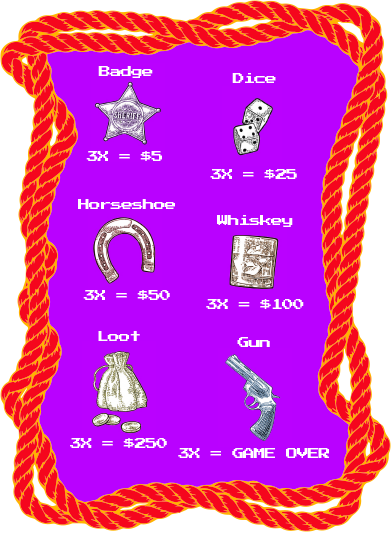
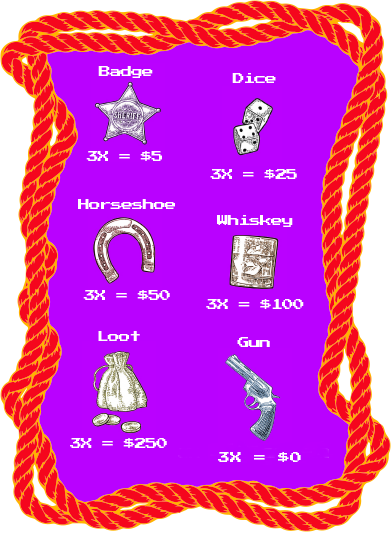
added sounds

Changed region(s): [[0.4604, 0.8405, 0.8593, 0.8705]]

diff --git a/js/main.js b/js/main.js
@@ -23,7 +23,7 @@ var state = {
 var weighting = [ 0,0,0,0,0,0,1, 1, 1, 1, 1, 1,2,2,2,2,2,3,3,3,3,3,3,4,4,4,4,4,4,5,5,5,5,5];
 
 var sounds = {
-    landing: 'http://soundbible.com/mp3/Cowboy_Theme-Pavak-1711860633.mp3',
+    //landing: 'http://soundbible.com/mp3/Cowboy_Theme-Pavak-1711860633.mp3',
     betting: 'http://freesound.org/data/previews/79/79172_1230147-lq.mp3',
     resetting: 'http://freesound.org/data/previews/165/165390_2989529-lq.mp3',
     letErRip: 'http://freesound.org/data/previews/160/160885_2895933-lq.mp3',
@@ -35,6 +35,7 @@ let msg, win;
 
 /*----- cached element references -----*/
 var audio = document.getElementById("bgSound");
+var player = new Audio();
 
 var slotReelA = document.querySelector('#a');
 var slotReelB = document.querySelector('#b');
@@ -52,9 +53,16 @@ document.querySelector('#reset').addEventListener('click', initialize);
 /*----- functions -----*/
 
 initialize();
+
 audio.volume = 0.2;
+//audio.play(); 
+setTimeout(audio.play(), 5);
+//audio.setCurrentTime(0);
 
 function betting(evt) {
+    player.src = sounds['betting'];
+    player.play();
+
     let placeBet = parseInt(evt.target.textContent);
     console.log(placeBet);
 
@@ -65,19 +73,19 @@ function betting(evt) {
         state.bet = (state.bet += placeBet);
     }
 
-    if (state.cash === 0) {
+    if (state.cash  === 0) {
         msg = 'You Feelin Lucky?';
-        document.querySelector('#bet-btns').removeEventListener('click', betting);
     }
     render();
 }
 
 function spin() {
+    player.src = sounds['letErRip'];
+    player.play();
+    if (state.bet === 0) return;
     state.reels.a = symbols[weighting[Math.floor(Math.random() * weighting.length)]];
     state.reels.b = symbols[weighting[Math.floor(Math.random() * weighting.length)]];
     state.reels.c = symbols[weighting[Math.floor(Math.random() * weighting.length)]];
-
-    if (state.bet && state.cash === 0) document.querySelector('#spin').removeEventListener('click', spin);
     
     winner();
     render();
@@ -93,12 +101,11 @@ function winner() {
         msg = 'Tough Luck Pardner';
         state.bet = 0;
     }
-
 }
 
 function render() {
     betEl.textContent = 'Bet:' + ' $' + state.bet;
-    cshEl.textContent = 'Cash:' + ' $' + state.cash;
+    cshEl.textContent = 'Cash:' + ' $' + state.cash;    
     msgEl.textContent = msg;
     slotReelA.style.backgroundImage = `url(${state.reels.a.imgUrl})`;
     slotReelB.style.backgroundImage = `url(${state.reels.b.imgUrl})`;
@@ -106,6 +113,8 @@ function render() {
 }
 
 function initialize() {
+    player.src = sounds['resetting'];
+    player.play();
     msg = 'Giddy Up Pardner';
     state.bet = 0;
     state.cash = 50;

diff --git a/index.html b/index.html
@@ -23,7 +23,7 @@
         </section>
 
         <div id="background">
-            <audio id="bgSound" src="http://soundbible.com/mp3/Cowboy_Theme-Pavak-1711860633.mp3" autoplay controls>
+            <audio id="bgSound" src="http://soundbible.com/mp3/Cowboy_Theme-Pavak-1711860633.mp3" controls>
             </audio>
 
             <div id="message">
